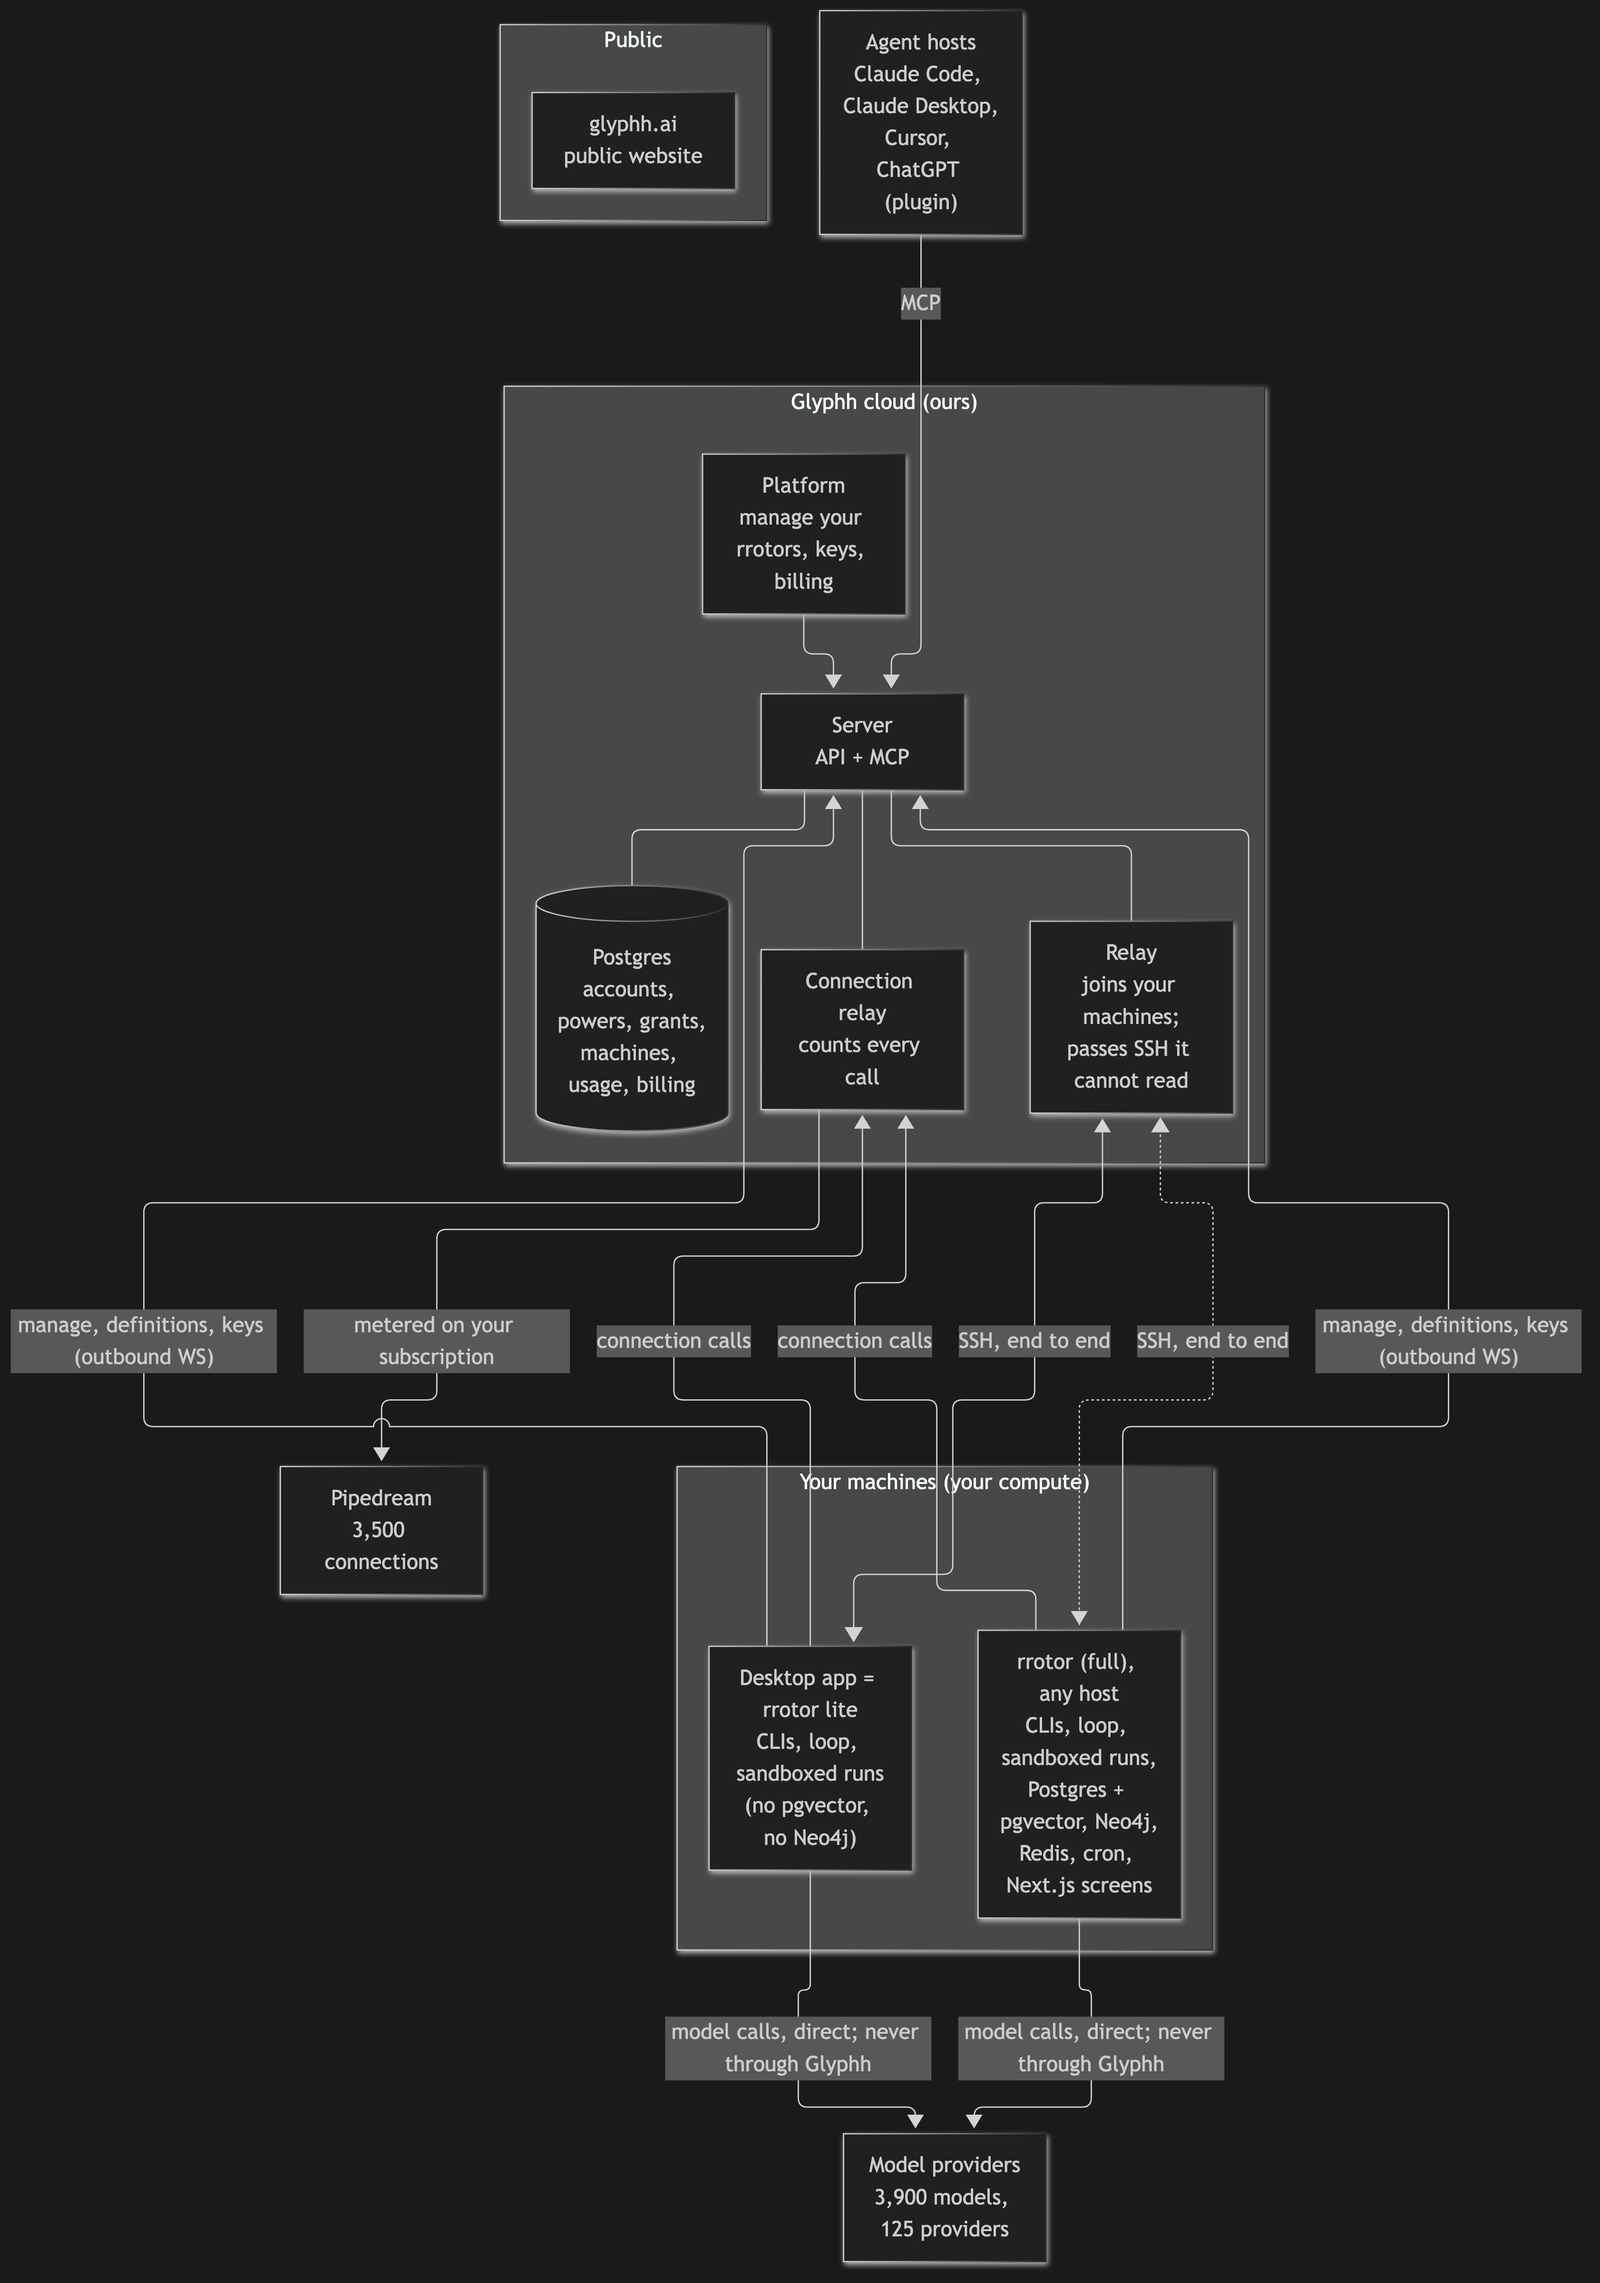
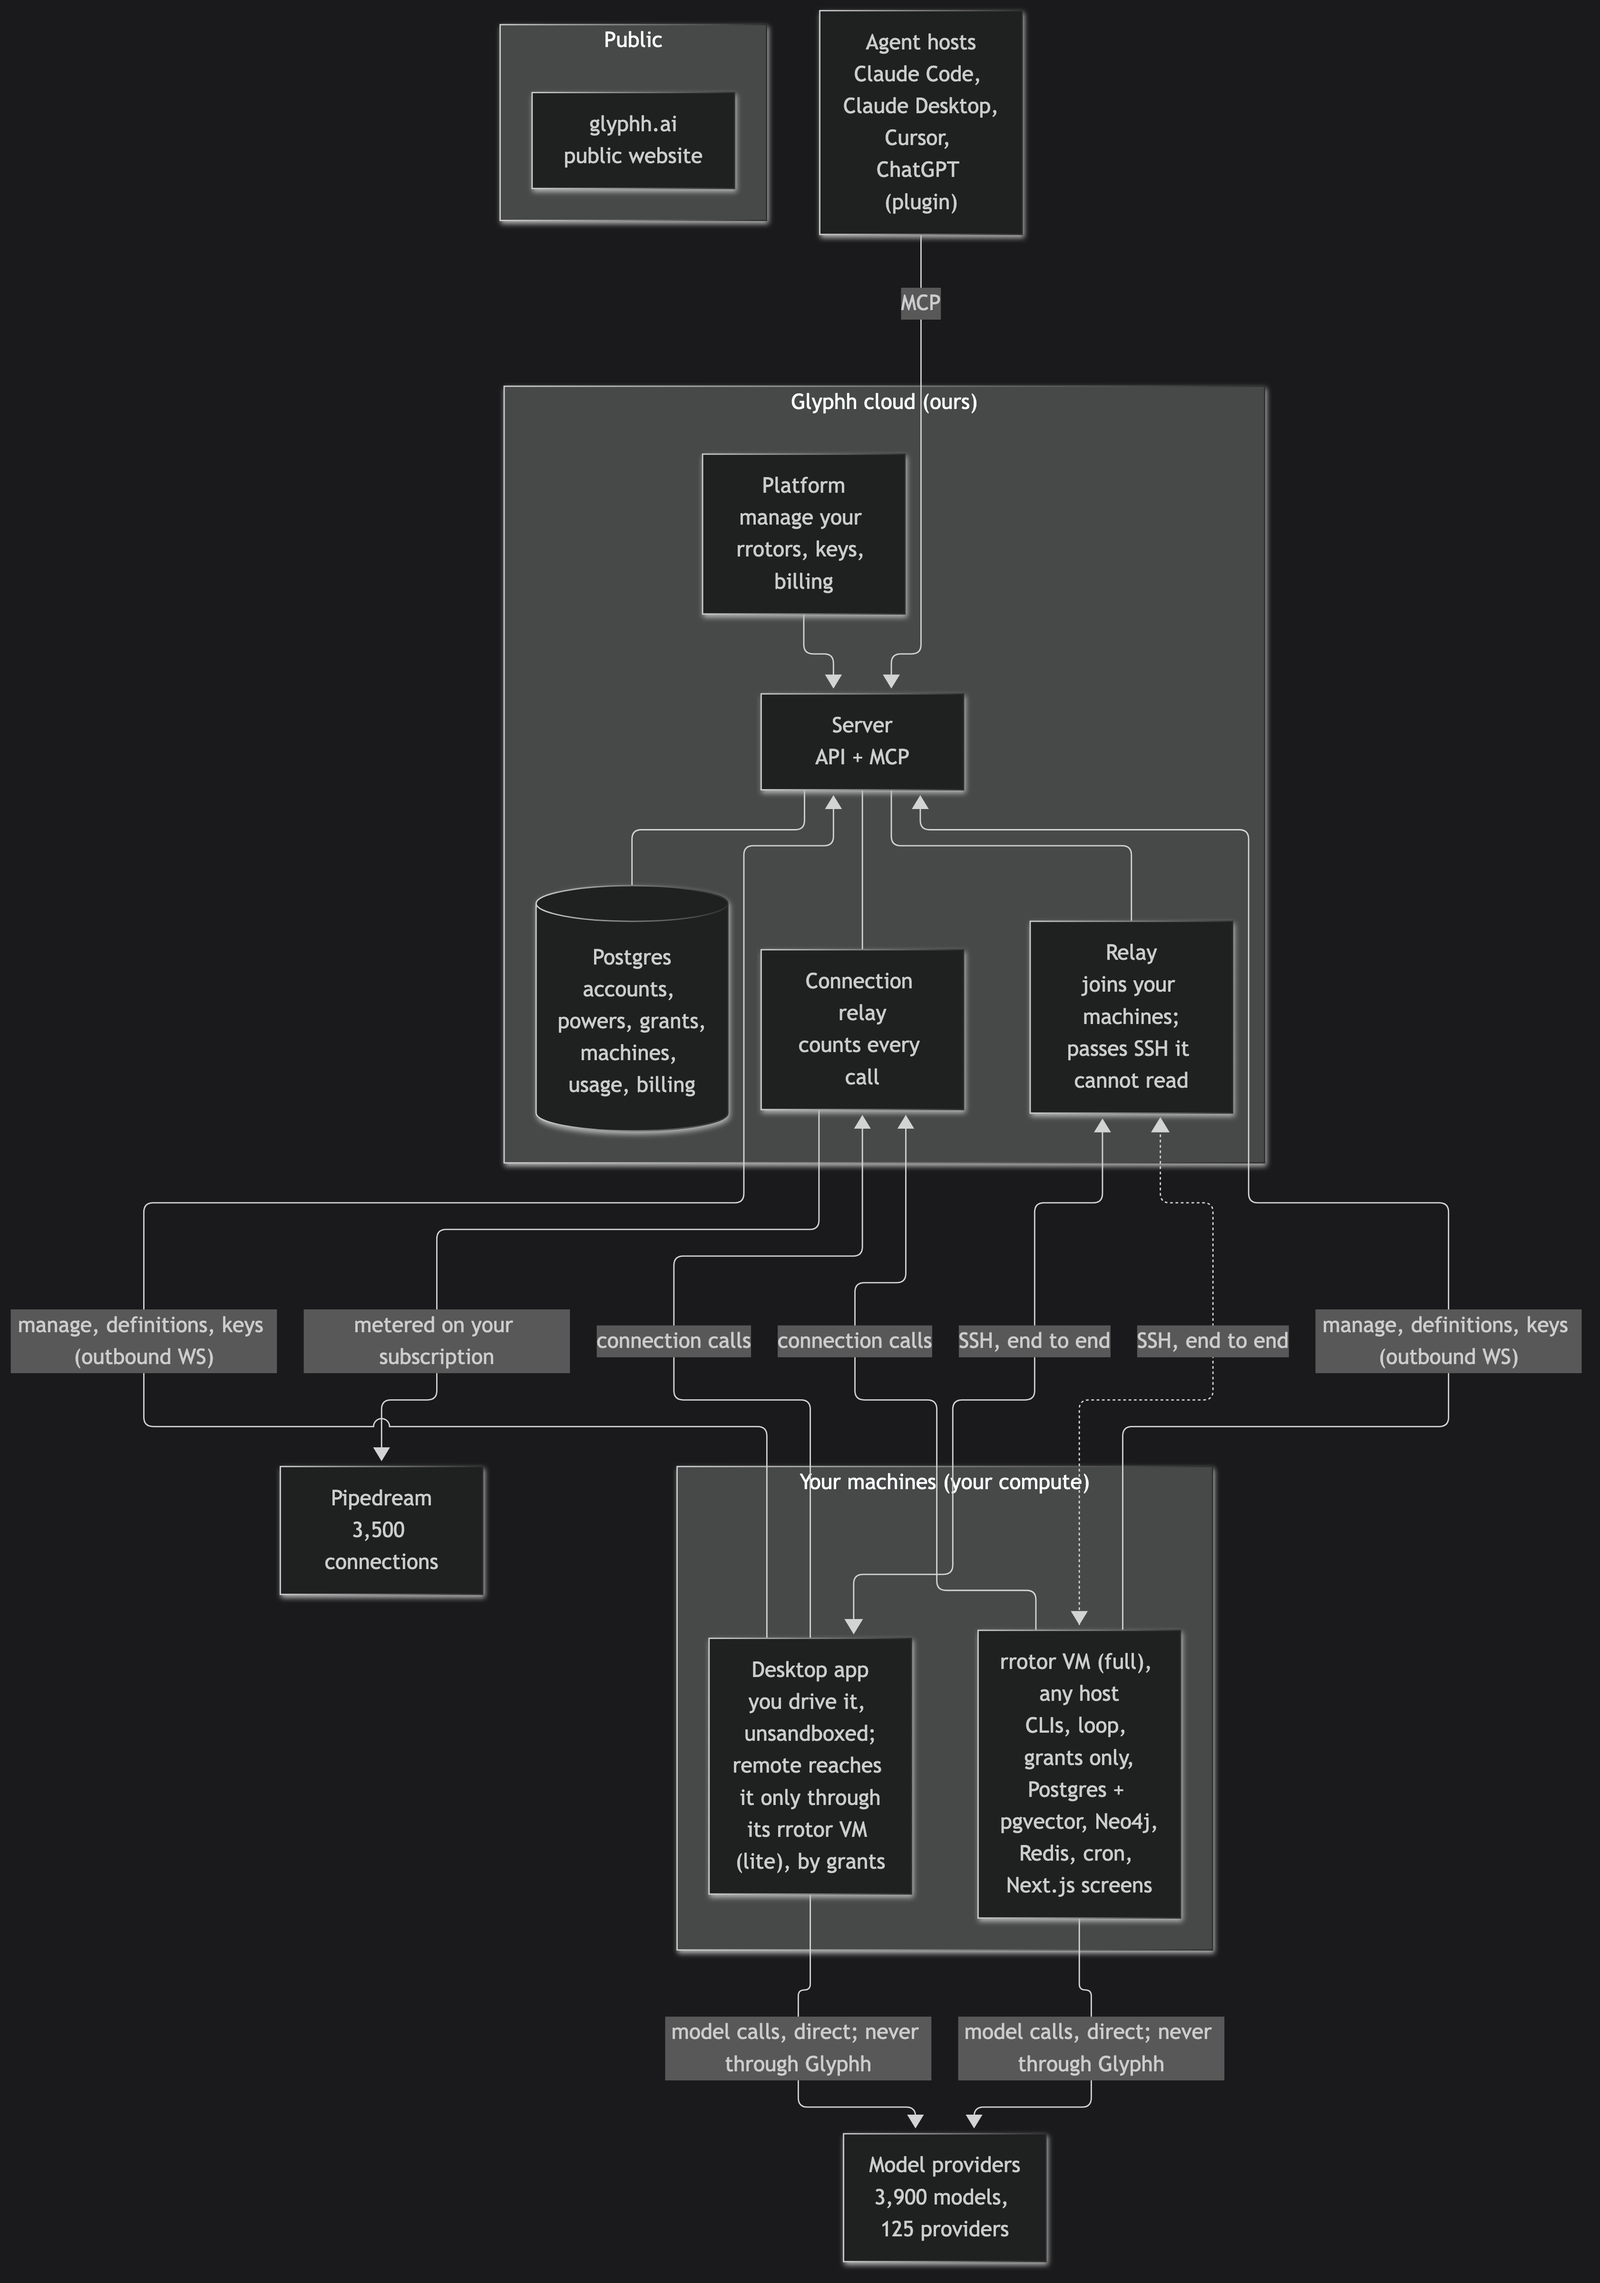
Architecture: rrotor is a Linux VM; the app you drive runs unsandboxed; remote control reaches a desktop only through rrotor, by grants

Changed region(s): [[0.437, 0.7188, 0.593, 0.8438], [0.6243, 0.7188, 0.7179, 0.7812]]

diff --git a/server/docs/architecture.md b/server/docs/architecture.md
@@ -19,8 +19,8 @@ flowchart TB
     end
 
     subgraph Yours["Your machines (your compute)"]
-        Desktop["Desktop app = rrotor lite<br/>CLIs, loop, sandboxed runs<br/>(no pgvector, no Neo4j)"]
-        Remote["rrotor (full), any host<br/>CLIs, loop, sandboxed runs,<br/>Postgres + pgvector, Neo4j,<br/>Redis, cron, Next.js screens"]
+        Desktop["Desktop app<br/>you drive it, unsandboxed;<br/>remote reaches it only through<br/>its rrotor VM (lite), by grants"]
+        Remote["rrotor VM (full), any host<br/>CLIs, loop, grants only,<br/>Postgres + pgvector, Neo4j,<br/>Redis, cron, Next.js screens"]
     end
 
     Agents["Agent hosts<br/>Claude Code, Claude Desktop,<br/>Cursor, ChatGPT (plugin)"]
@@ -116,7 +116,7 @@ Everything a super power needs to run, on the member's own machine:
 
 It is the agent runtime: from it, a super power reaches about 3,900 models across 125 providers directly, never through Glyphh's servers, and about 3,500 connections, which go through the server and are counted against the member's subscription.
 
-**The desktop app is a rrotor too, a lite one:** the CLIs, the loop and sandboxed runs, without pgvector or Neo4j. It connects to the member's other machines, so they can spread super powers across them and manage them all from one place.
+**The desktop app is a rrotor too, a lite one:** the CLIs and the loop, without pgvector or Neo4j. It connects to the member's other machines, so they can spread super powers across them and manage them all from one place.
 
 A super power's data and screens live in its member's rrotor, never on the server: the server holds the super power's definition and its grants, not what it stores.
 
@@ -137,7 +137,14 @@ A member's machines reach each other, so from machine A they can watch machine B
 - **Who:** for now only the machine's owner, from their own machines, the app or the web. The server checks it before joining two connections.
 - **When B drops:** A is told at once, and can join again when B is back.
 
-**Known gap, not yet decided:** the super power's folders are enforced only where rrotor does the work itself (its files channel and its MCP tools). A CLI's own Bash tool runs as rrotor's user, so it can read anything that user can (`cat ~/.ssh/...`), and the shell, once on, is the whole machine. The working folder is not a fence. The proposal on the table: every run inside an operating-system sandbox that holds only its granted folders and its run folder (a container per run on remote servers; Seatbelt on macOS and bubblewrap on Linux desktops; the CLI's own sandbox as a second layer, never the only one), the shell inside the same sandbox by default, and a whole-machine shell as its own switch. Windows desktops would need a container (WSL or Docker) for the same guarantee.
+### rrotor is a Linux VM; the app you drive is not sandboxed
+
+Decided 2026-10-11:
+
+- **rrotor is a small Linux VM.** On a server it is the machine; on a desktop the app runs it headless (Apple's Virtualization framework on macOS, WSL2 on Windows, locked down: no automounted drives, no Windows interop, no Windows PATH). Inside it, a run sees only the folders it was granted, mounted in; the rest of the desktop does not exist for it, so no shell, Bash tool or program can reach past them. On Linux desktops the same fence comes from namespaces and Landlock, without a VM.
+- **The app runs unsandboxed, because the member is driving.** Like Claude Code on their own machine: they see each step, approve what is risky, and can stop it. Glyphh, the agent they drive, has everything.
+- **Remote control reaches a desktop only through its rrotor, and only by grants.** Another machine, the web, the platform or a super power running unattended never touches the app or the desktop directly: it reaches the rrotor VM, which holds only what was granted. A super power is fenced whether or not anyone is watching it.
+- **The app's own tools that touch files, shells or processes move into rrotor,** so nothing remote can reach the desktop through a tool in the app instead of through bash. The app keeps its screens, its windows and its browser, which already keeps its own storage apart from the member's own browser; its downloads and uploads go to a granted folder.
 
 Ported from the old relay (`/ws/attach`), which kept the outbound sockets, the fixed list of methods and the folder grants, but let the server read every frame, put the user's sign-in token in the URL, and had no machine identity of its own.
 

diff --git a/server/docs/status.md b/server/docs/status.md
@@ -21,13 +21,12 @@ On the [data model](data-model.md), in the order they were drawn:
 - **Billing and usage:** the plan's credit and machine columns, `subscriptions`, `credit_ledger`, `usage_events` (logged by the server's connection relay, one per call).
 - **People and machines:** `invites`, `machines` (with their SSH key, fingerprint and shell switch), `machine_sign_ins`, `api_keys`.
 
-On the [architecture](architecture.md): the platform's usage and billing pages, adding a model in the app, what rrotor carries (Postgres with pgvector, a Next.js server, the loop), and machine to machine over SSH through the relay.
+On the [architecture](architecture.md): rrotor as a Linux VM (the app you drive unsandboxed, remote control only through rrotor by grants), the platform's usage and billing pages, adding a model in the app, what rrotor carries (Postgres with pgvector, a Next.js server, the loop), and machine to machine over SSH through the relay.
 
 ## Open
 
 Decisions still to make. Where a proposal is written, it is a proposal, not a decision.
 
-- **Run sandbox:** the gap above, where a CLI's Bash or the shell reaches past the super power's folders. Proposal: every run in an operating-system sandbox holding only its granted folders.
 - **Conversations:** not drawn. Proposal: the server keeps each conversation's record (title, super power, machine, run, status, times), rrotor keeps the messages, and the app and web open them over SSH through the relay.
 - **App settings** (workspaces, tabs, layout, appearance): not drawn; on hold.
 - **The rrotor definition:** what a super power's definition holds (its workflows, pipelines and screens), how one super power's data is kept apart from another's in rrotor's Postgres, and how its screens reach the app and the web from a remote machine.
